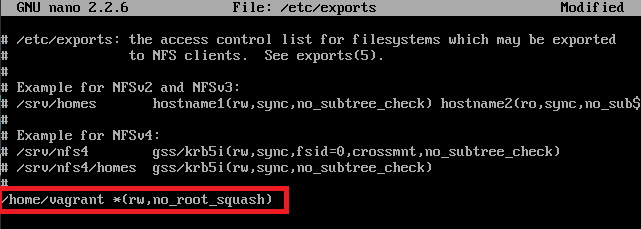
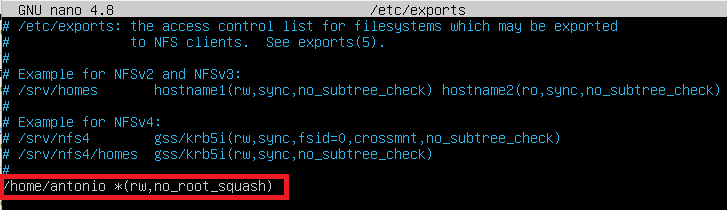
Contenido actualizado

Changed region(s): [[0.0, 0.0, 1.0, 0.9714]]

diff --git a/README.md b/README.md
@@ -85,7 +85,7 @@ Laboratorios para las formaciones de Ethical Hacking está en la URL https://git
    - Enumerar el dominio con ***ldapsearch***.
 
 4. Laboratorio 04-D: ***Enumeración NFS***. Los ejercicios a realizar son:
-   - Instalar un servidor NFS en ***Metasploitable3-ubu1404***.
+   - Configuración de un share de NFS.
    - Enumerar los ***shares*** con ***nmap***.
 
 
@@ -96,7 +96,7 @@ Laboratorios para las formaciones de Ethical Hacking está en la URL https://git
 1. Laboratorio 30-A: ***Explotar vulnerabilidad CVE-2015-3306 presente en ProFTPD 1.3.5***.
 2. Laboratorio 30-B: ***Explotar vulnerabilidad CVE-2014-6271 (Shellshock) presente en Apache***.
 3. Laboratorio 30-C: ***Aprovechar vulnerabilidad WebDAV***.
-4. Laboratorio 30-D: ***Escalado de privilegio en una NFS mal configurada***.
+4. Laboratorio 30-D: ***Escalado de privilegio explotando no_root_squash***.
 
 
    
